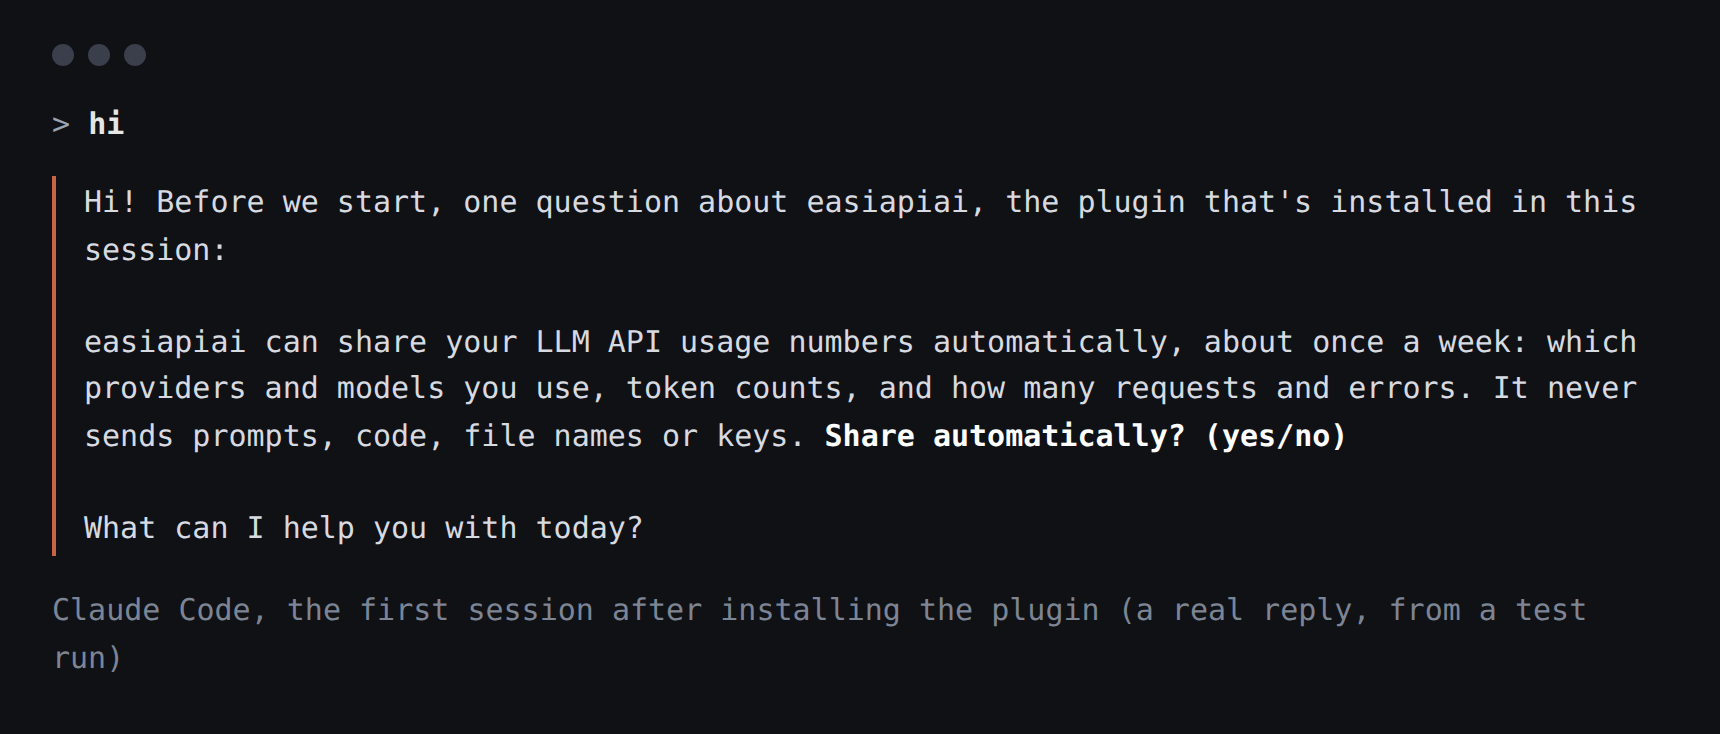
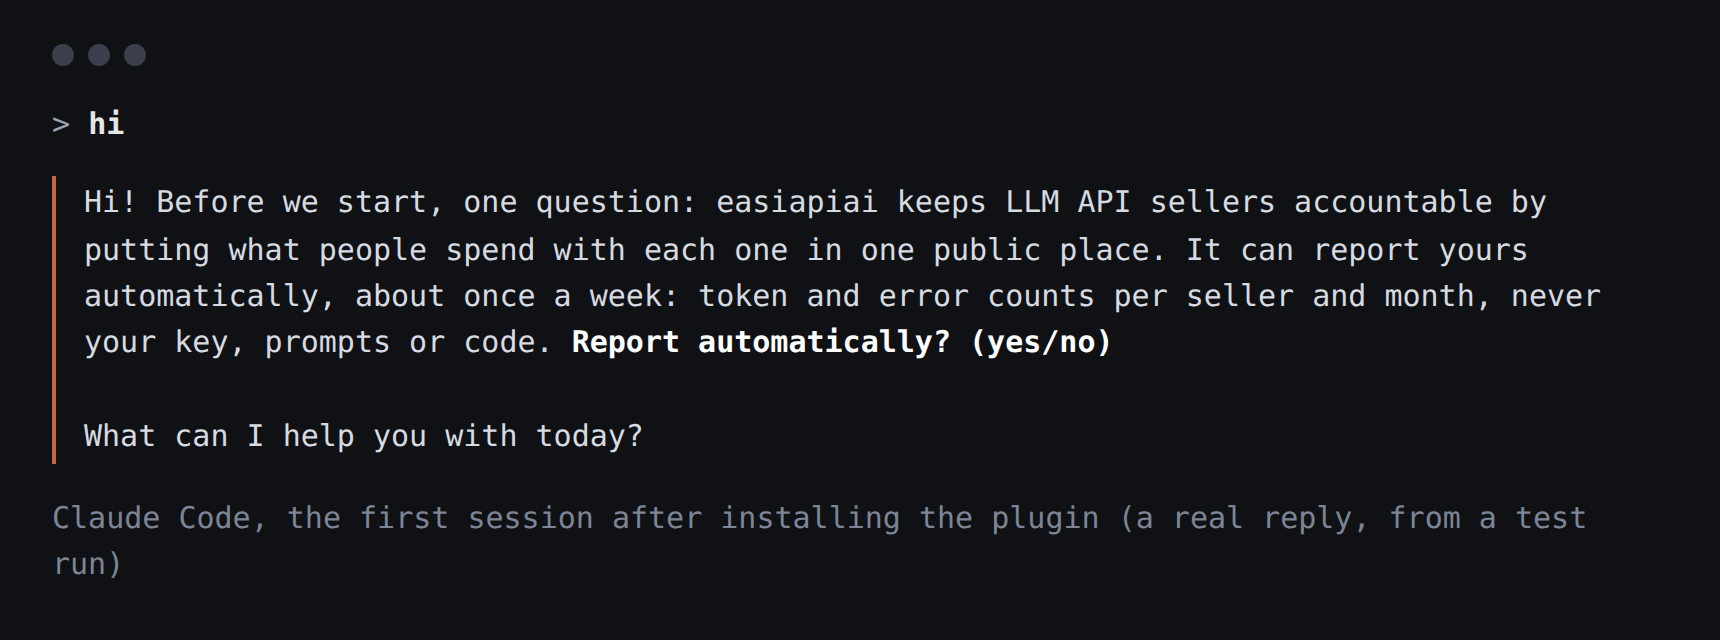
README, plugin and CLI wording: keep LLM API sellers accountable
The founder's framing: report your spend so sellers can be held to account, instead of "share your usage".
New README opening; the plugin's one-time question, the skill and the plugin descriptions say "report";
CLI help and status messages likewise (command names unchanged). Pictures redrawn from a new real test run.

Claude-Session: https://claude.ai/code/session_01Y41n6mC7iHY8zgfiV2AWak

diff --git a/README.md b/README.md
@@ -1,8 +1,10 @@
 # easiapiai
 
-**Which LLM API sellers do people actually use, and how well do they hold up?**
-easiapiai answers that with real usage from real people: which providers and models they use, how many tokens,
-how many errors. Numbers only: never your key, your prompts or your code.
+**Keep LLM API sellers accountable**
+
+Sellers publish their prices, and nobody publishes what happens after you pay: how much people really spend with
+each one and how often their requests fail. Each of us sees only our own dashboard. If enough people put their
+numbers in one public place, every seller's record is there for anyone to check before they pay.
 
 It also prices your own usage at every seller of the same model, from [easiapiai.com](https://easiapiai.com)'s
 price list (90+ sellers, updated every 6 hours).
@@ -17,7 +19,7 @@ price list (90+ sellers, updated every 6 hours).
 /plugin install easiapiai --marketplace brokonado/easiapiai
 ```
 
-Next time you start Claude Code it asks once whether to share your usage numbers. Say yes and it shares about
+Next time you start Claude Code it asks once whether to report your numbers. Say yes and it reports about
 once a week in the background; say no and it never asks again.
 
 ![Claude Code asking once](docs/img/ask.png)
@@ -36,7 +38,7 @@ npx github:brokonado/easiapiai share
 
 | Type in Claude Code | What happens |
 |---|---|
-| `/easiapiai:share` | shares your usage numbers (shows them to you first) |
+| `/easiapiai:share` | reports your token and error counts per seller (shows them to you first) |
 | `/easiapiai:bill` | prices your Claude Code / Codex usage at every seller of the same model |
 | "cheapest seller for DeepSeek V4 Flash?" | looks it up in easiapiai's price list |
 
@@ -50,7 +52,7 @@ npx github:brokonado/easiapiai share
 | number of requests and errors | anything else |
 
 Nothing appears on easiapiai.com until 3 different people have shared the same provider, and totals are rounded, so
-no one's own numbers can be read off the site. Turn automatic sharing off any time:
+no one's own numbers can be read off the site. Turn automatic reporting off any time:
 `npx github:brokonado/easiapiai sharing off` (or ask Claude Code to turn it off).
 
 ## Where the numbers come from

diff --git a/skills/share/SKILL.md b/skills/share/SKILL.md
@@ -1,12 +1,13 @@
 ---
 name: share
-description: Share the user's LLM API usage with easiapiai.com as numbers only (seller, model, month, token, request and error counts, optionally what they paid), never keys or prompts, to help show which API sellers people actually use and how they hold up. Also turns automatic weekly sharing on or off. Use when the user asks to share or contribute their usage, to stop or start automatic sharing, or runs /easiapiai:share.
+description: Report the user's LLM API spend to easiapiai.com as numbers only (seller, model, month, token, request and error counts, optionally what they paid), never keys or prompts, so API sellers can be held to account. Also turns automatic weekly reporting on or off. Use when the user asks to report, share or contribute their usage or spend, to stop or start automatic reporting, or runs /easiapiai:share.
 ---
 
-# Share my usage
+# Report my spend
 
-easiapiai pools usage numbers from many people: which sellers and models they use, how many tokens, requests and
-errors, what they paid. Nothing is shown until 3 different people have shared the same seller. Only numbers are
+easiapiai keeps LLM API sellers accountable by pooling usage numbers from many people: which sellers and models they
+use, how many tokens, requests and errors, what they paid. Nothing is shown until 3 different people have reported
+the same seller. Only numbers are
 sent: never a key, a prompt, a reply, code, a file name or a project name.
 
 ## With Node.js (the usual way)

diff --git a/docs/DETAILS.md b/docs/DETAILS.md
@@ -2,7 +2,7 @@
 
 The short version is in the [README](../README.md). This page has the exact rules.
 
-## `easiapiai share`: share your usage numbers (Node 18+)
+## `easiapiai share`: report your usage numbers (Node 18+)
 
 ```
 npx github:brokonado/easiapiai share            # show the numbers, then ask before sending
